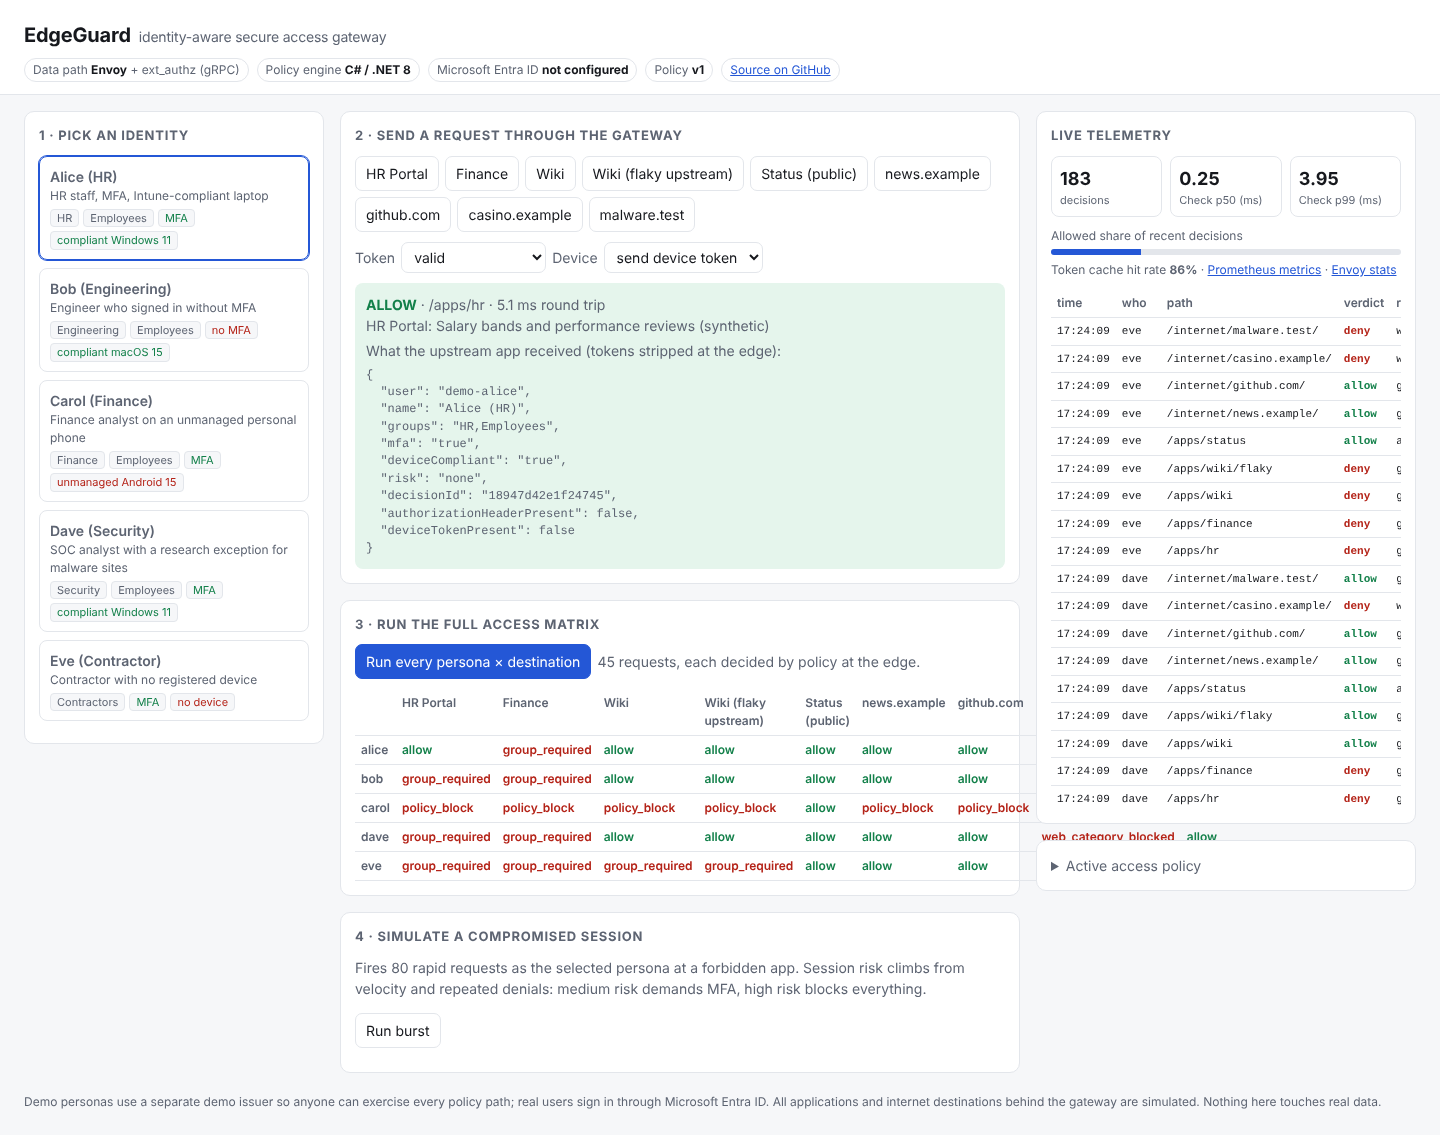
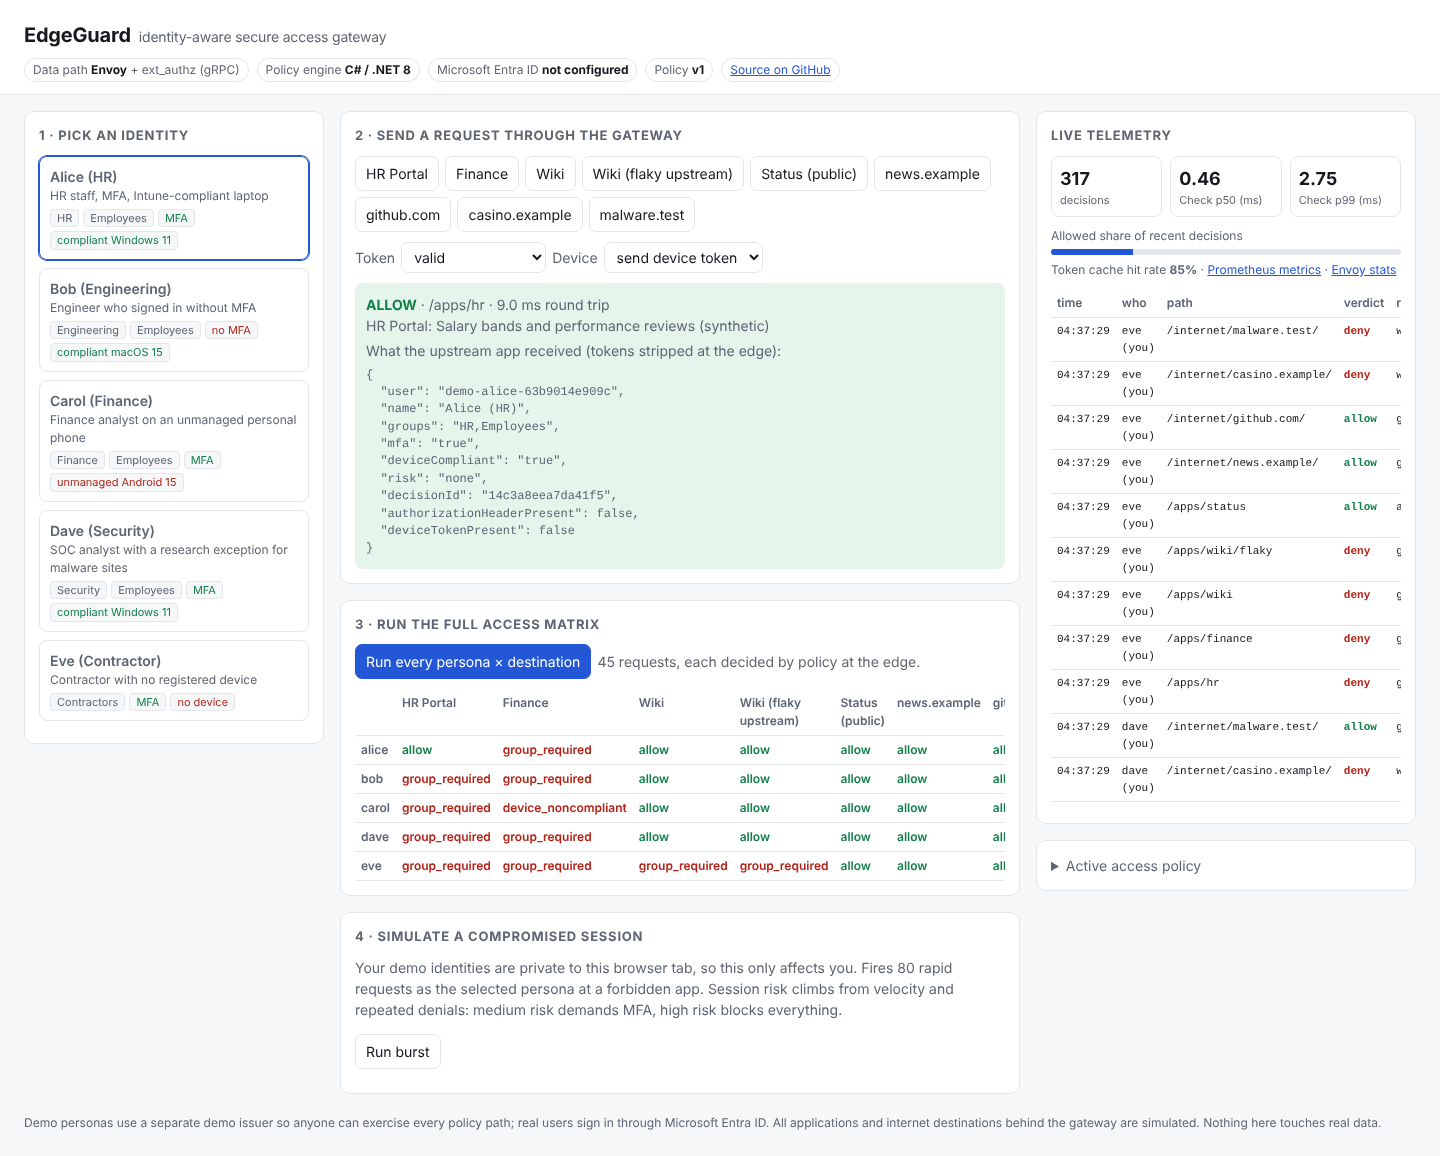
Isolate demo identities per visitor; cap risk state; live link
Each console session mints demo tokens with its own subject, so one visitor's
burst no longer raises risk for everyone using the same persona. Idle per-identity
risk windows are evicted past a cap. Matrix scrolls within its panel.

Claude-Session: https://claude.ai/code/session_01SLPVUHpVBYC754RvdsfNfB

diff --git a/src/EdgeGuard.Authz/wwwroot/index.html b/src/EdgeGuard.Authz/wwwroot/index.html
@@ -35,7 +35,7 @@ pre{font:12px/1.45 var(--mono);white-space:pre-wrap;word-break:break-word;margin
 table{border-collapse:collapse;width:100%;font-size:12px}th,td{border-bottom:1px solid var(--line);padding:5px 6px;text-align:left;vertical-align:top}
 th{color:var(--muted);font-weight:600}
 td.c-allow{color:var(--ok);font-weight:600}td.c-deny,td.c-unauthenticated{color:var(--deny);font-weight:600}
-.feed{max-height:520px;overflow:auto}.feed table{min-width:520px}.feed td{font-family:var(--mono);font-size:11px}
+.feed{max-height:520px;overflow:auto}.feed table{min-width:520px}.feed td{font-family:var(--mono);font-size:11px;white-space:nowrap}
 .kpis{display:grid;grid-template-columns:repeat(3,1fr);gap:8px;margin-bottom:10px}
 .kpi{border:1px solid var(--line);border-radius:8px;padding:8px}.kpi .v{font-size:18px;font-weight:700}.kpi .l{font-size:11px;color:var(--muted)}
 .muted{color:var(--muted)}a{color:var(--accent)}
@@ -89,14 +89,14 @@ footer{padding:4px 24px 24px;color:var(--muted);font-size:12px;max-width:1500px;
     <section style="margin-top:16px">
       <h2>3 · Run the full access matrix</h2>
       <div class="row"><button id="matrix-btn" class="primary">Run every persona × destination</button><span class="muted" id="matrix-note"></span></div>
-      <div id="matrix"></div>
+      <div id="matrix" style="overflow-x:auto"></div>
     </section>
 
     <section style="margin-top:16px">
       <h2>4 · Simulate a compromised session</h2>
-      <p class="muted" style="margin-top:0">Fires 80 rapid requests as the selected persona at a forbidden app. Session risk climbs from velocity and repeated denials: medium risk demands MFA, high risk blocks everything.</p>
+      <p class="muted" style="margin-top:0">Your demo identities are private to this browser tab, so this only affects you. Fires 80 rapid requests as the selected persona at a forbidden app. Session risk climbs from velocity and repeated denials: medium risk demands MFA, high risk blocks everything.</p>
       <div class="row"><button id="burst-btn">Run burst</button><span id="burst-note" class="muted"></span></div>
-      <div id="burst"></div>
+      <div id="burst" style="overflow-x:auto"></div>
     </section>
   </div>
 
@@ -134,12 +134,15 @@ const TARGETS = [
 ];
 let personas = [], selected = "alice", entraToken = null, config = {};
 const tokenCache = new Map();
+const SESSION = (() => { try { const k = "eg-session"; let v = sessionStorage.getItem(k);
+  if (!v) { v = Array.from(crypto.getRandomValues(new Uint8Array(6)), (b) => b.toString(16).padStart(2, "0")).join(""); sessionStorage.setItem(k, v); }
+  return v; } catch { return Array.from(crypto.getRandomValues(new Uint8Array(6)), (b) => b.toString(16).padStart(2, "0")).join(""); } })();
 
 async function demoToken(persona, tamper) {
   const key = persona + "|" + (tamper || "");
   const hit = tokenCache.get(key);
   if (hit && hit.until > Date.now()) return hit.t;
-  const r = await fetch("/api/demo/token", { method: "POST", headers: { "content-type": "application/json" }, body: JSON.stringify({ persona, tamper: tamper || null }) });
+  const r = await fetch("/api/demo/token", { method: "POST", headers: { "content-type": "application/json" }, body: JSON.stringify({ persona, tamper: tamper || null, session: SESSION }) });
   if (!r.ok) throw new Error("token endpoint " + r.status);
   const t = await r.json();
   tokenCache.set(key, { t, until: Date.now() + 10 * 60 * 1000 });
@@ -227,7 +230,7 @@ async function runBurst() {
     try { reason = (await r.json()).reason ?? "allow"; } catch {}
     counts[reason] = (counts[reason] || 0) + 1;
   }));
-  const subj = "demo-" + selected;
+  const subj = t.subject;
   const ev = await (await fetch(`/api/decisions?subject=${subj}&limit=80`)).json();
   const risks = {}; ev.forEach((e) => risks[e.risk] = (risks[e.risk] || 0) + 1);
   $("burst").innerHTML = `<table><tr><th>Outcome</th><th>Count</th></tr>${Object.entries(counts).map(([k, v]) => `<tr><td>${esc(k)}</td><td>${v}</td></tr>`).join("")}</table>
@@ -243,7 +246,7 @@ async function refresh() {
     $("k-p99").textContent = s.checkLatencyMs.p99.toFixed(2);
     $("k-cache").textContent = (s.tokenCacheHitRate * 100).toFixed(0) + "%";
     const allow = s.byVerdict.allow || 0; $("k-allow").style.width = (s.window ? (allow / s.window) * 100 : 0) + "%";
-    $("feed").innerHTML = d.map((e) => `<tr><td>${esc(e.ts.slice(11, 19))}</td><td>${esc(e.subject.replace("demo-", ""))}</td><td>${esc(e.path)}</td>
+    $("feed").innerHTML = d.map((e) => `<tr><td>${esc(e.ts.slice(11, 19))}</td><td>${esc(e.subject.startsWith("demo-") ? e.subject.split("-")[1] + (e.subject.endsWith(SESSION) ? " (you)" : "") : e.subject.slice(0, 8))}</td><td>${esc(e.path)}</td>
       <td class="c-${esc(e.verdict)}">${esc(e.verdict)}</td><td>${esc(e.reasonCode)}</td><td>${esc(e.risk)}</td></tr>`).join("");
   } catch {}
 }

diff --git a/tests/integration/test_gateway.py b/tests/integration/test_gateway.py
@@ -12,13 +12,13 @@ import pytest
 import requests
 
 BASE = os.environ.get("EDGEGUARD_URL", "http://localhost:8080").rstrip("/")
-ADMIN_KEY = os.environ.get("EDGEGUARD_ADMIN_KEY", "localadmin")
+ADMIN_KEY = os.environ.get("EDGEGUARD_ADMIN_KEY", "")
 S = requests.Session()
 
 
-def token(persona, tamper=None):
+def token(persona, tamper=None, session=None):
     for _ in range(20):  # the token endpoint is deliberately rate limited
-        r = S.post(f"{BASE}/api/demo/token", json={"persona": persona, "tamper": tamper}, timeout=5)
+        r = S.post(f"{BASE}/api/demo/token", json={"persona": persona, "tamper": tamper, "session": session}, timeout=5)
         if r.status_code != 429:
             break
         time.sleep(0.1)
@@ -44,13 +44,6 @@ def reason(r):
         return r.json()["reason"]
     except Exception:
         return str(r.status_code)
-
-
-@pytest.fixture(autouse=True)
-def clean_risk_state():
-    """Each test starts with no accumulated session risk for the demo personas."""
-    for p in ("alice", "bob", "carol", "dave", "eve"):
-        S.delete(f"{BASE}/api/admin/risk/demo-{p}", headers={"x-admin-key": ADMIN_KEY}, timeout=5)
 
 
 # ---------------------------------------------------------------- policy matrix
@@ -128,7 +121,7 @@ def test_credentials_are_stripped_and_identity_headers_cannot_be_spoofed():
     h = headers_for(token("alice"))
     h.update({"x-eg-user": "admin", "x-eg-groups": "Finance", "x-eg-risk": "none"})
     seen = call("/apps/wiki", h).json()["seenByUpstream"]
-    assert seen["user"] == "demo-alice"
+    assert seen["user"].startswith("demo-alice-")
     assert seen["groups"] == "HR,Employees"
     assert seen["authorizationHeaderPresent"] is False
     assert seen["deviceTokenPresent"] is False
@@ -173,21 +166,30 @@ def test_admin_risk_api_requires_the_admin_key():
     assert r.status_code == 401
 
 
+def test_each_session_gets_an_isolated_identity():
+    a, b = token("alice"), token("alice")
+    assert a["subject"] != b["subject"]
+    assert token("alice", session=a["session"])["subject"] == a["subject"]
+
+
+@pytest.mark.skipif(ADMIN_KEY == "", reason="needs EDGEGUARD_ADMIN_KEY")
 def test_external_risk_signal_contains_then_releases_an_identity():
-    h = headers_for(token("alice"))
+    t = token("alice")
+    h = headers_for(t)
     assert call("/apps/hr", h).status_code == 200
     r = S.post(f"{BASE}/api/admin/risk", headers={"x-admin-key": ADMIN_KEY},
-               json={"subject": "demo-alice", "level": "High", "reason": "test: impossible travel", "ttlSeconds": 60}, timeout=5)
+               json={"subject": t["subject"], "level": "High", "reason": "test: impossible travel", "ttlSeconds": 60}, timeout=5)
     assert r.status_code == 200
     assert reason(call("/apps/hr", h)) == "policy_block"
-    assert S.delete(f"{BASE}/api/admin/risk/demo-alice", headers={"x-admin-key": ADMIN_KEY}, timeout=5).status_code == 204
+    assert S.delete(f"{BASE}/api/admin/risk/{t['subject']}", headers={"x-admin-key": ADMIN_KEY}, timeout=5).status_code == 204
     assert call("/apps/hr", h).status_code == 200
 
 
 def test_burst_escalates_risk_to_step_up_then_block():
-    h = headers_for(token("carol"))
+    t = token("carol")
+    h = headers_for(t)
     with cf.ThreadPoolExecutor(8) as ex:
         reasons = list(ex.map(lambda _: reason(call("/apps/hr", h)), range(80)))
     assert "policy_block" in reasons
-    decisions = S.get(f"{BASE}/api/decisions", params={"subject": "demo-carol", "limit": 200}, timeout=5).json()
+    decisions = S.get(f"{BASE}/api/decisions", params={"subject": t["subject"], "limit": 200}, timeout=5).json()
     assert {"medium", "high"} <= {d["risk"] for d in decisions}

diff --git a/src/EdgeGuard.Authz/Program.cs b/src/EdgeGuard.Authz/Program.cs
@@ -106,8 +106,13 @@ api.MapGet("/api/personas", () => DemoPersonas.All.Select(p => new
 api.MapPost("/api/demo/token", (DemoTokenRequest r) =>
 {
     if (!demoEnabled) return Results.NotFound();
-    var p = DemoPersonas.Find(r.Persona ?? "");
-    if (p is null) return Results.BadRequest(new { error = "unknown persona" });
+    var persona = DemoPersonas.Find(r.Persona ?? "");
+    if (persona is null) return Results.BadRequest(new { error = "unknown persona" });
+    // Each visitor session gets its own subject, so one visitor's burst (and the risk it
+    // raises) never changes what another visitor sees for the same persona.
+    var session = r.Session is { Length: >= 6 and <= 32 } sid && sid.All(char.IsLetterOrDigit)
+        ? sid.ToLowerInvariant() : Guid.NewGuid().ToString("N")[..10];
+    var p = persona with { Subject = $"demo-{persona.Key}-{session}" };
     string access = r.Tamper switch
     {
         "expired" => demo.IssueUserToken(p, TimeSpan.FromMinutes(5), DateTimeOffset.UtcNow.AddHours(-1)),
@@ -115,7 +120,7 @@ api.MapPost("/api/demo/token", (DemoTokenRequest r) =>
         _ => demo.IssueUserToken(p, TimeSpan.FromMinutes(15)),
     };
     var device = p.DeviceId is null ? null : demo.IssueDeviceToken(p.DeviceId, p.DeviceCompliant, p.DeviceOs, TimeSpan.FromMinutes(15));
-    return Results.Ok(new { persona = p.Key, accessToken = access, deviceToken = device, expiresIn = 900 });
+    return Results.Ok(new { persona = p.Key, subject = p.Subject, session, accessToken = access, deviceToken = device, expiresIn = 900 });
 });
 
 api.MapGet("/api/decisions", (DecisionTelemetry t, int? limit, string? subject) =>
@@ -162,6 +167,6 @@ api.MapDelete("/api/admin/risk/{subject}", (HttpRequest req, string subject, Ris
 
 app.Run();
 
-public sealed record DemoTokenRequest(string? Persona, string? Tamper);
+public sealed record DemoTokenRequest(string? Persona, string? Tamper, string? Session);
 public sealed record RiskOverride(string Subject, string Level, string? Reason, int? TtlSeconds);
 public partial class Program;

diff --git a/src/EdgeGuard.Authz/Risk/RiskEngine.cs b/src/EdgeGuard.Authz/Risk/RiskEngine.cs
@@ -36,6 +36,7 @@ public sealed class RiskEngine
     public RiskSignal Assess(string subject, bool hasDevice)
     {
         var now = _time.GetUtcNow().ToUnixTimeMilliseconds();
+        if (_windows.Count >= MaxTrackedSubjects) EvictIdle(now);
         var w = _windows.GetOrAdd(subject, _ => new Window());
         int requests, denials;
         lock (w)
@@ -85,6 +86,27 @@ public sealed class RiskEngine
     public IReadOnlyDictionary<string, object> ExternalRiskSnapshot() =>
         _external.Where(kv => kv.Value.Until > _time.GetUtcNow())
                  .ToDictionary(kv => kv.Key, kv => (object)new { level = kv.Value.Level.ToString(), why = kv.Value.Why, until = kv.Value.Until });
+
+    /// <summary>Upper bound on per-identity windows held in memory (public demo mints many subjects).</summary>
+    public int MaxTrackedSubjects { get; init; } = 20_000;
+
+    public int TrackedSubjects => _windows.Count;
+
+    /// <summary>Drop identities with no activity in the last 60 s; their windows are empty anyway.</summary>
+    private void EvictIdle(long now)
+    {
+        foreach (var (key, w) in _windows)
+        {
+            bool idle;
+            lock (w)
+            {
+                Trim(w.Requests, now - 10_000);
+                Trim(w.Denials, now - 60_000);
+                idle = w.Requests.Count == 0 && w.Denials.Count == 0;
+            }
+            if (idle) _windows.TryRemove(key, out _);
+        }
+    }
 
     private static void Trim(Queue<long> q, long cutoff) { while (q.Count > 0 && q.Peek() < cutoff) q.Dequeue(); }
 }

diff --git a/tests/EdgeGuard.Authz.Tests/IdentityAndRiskTests.cs b/tests/EdgeGuard.Authz.Tests/IdentityAndRiskTests.cs
@@ -155,3 +155,17 @@ public class RiskReleaseTests
         Assert.Equal(RiskLevel.None, r.Assess("u", true).Level);
     }
 }
+
+public class RiskMemoryTests
+{
+    [Fact]
+    public void Idle_identities_are_evicted_when_the_cap_is_reached()
+    {
+        var clock = new FakeTimeProvider(DateTimeOffset.UtcNow);
+        var r = new RiskEngine(new RiskOptions(), clock) { MaxTrackedSubjects = 100 };
+        for (var i = 0; i < 100; i++) r.Assess($"old-{i}", true);
+        clock.Advance(TimeSpan.FromSeconds(61));
+        r.Assess("new", true);
+        Assert.Equal(1, r.TrackedSubjects);
+    }
+}

diff --git a/README.md b/README.md
@@ -5,7 +5,7 @@ reaches a private app or an internet destination, Envoy asks a C#/.NET authoriza
 whether *this identity, on this device, at this risk level* may proceed. It is a small, working model of
 how a Zero Trust edge (Secure Web Gateway + private application access) makes per-request decisions.
 
-**Live demo:** _link added after deployment_ · **Stack:** Envoy 1.33 · C# / .NET 8 · gRPC · Microsoft Entra ID · Docker · Google Cloud Run · GitHub Actions · k6
+**Live demo:** https://edgeguard-txtjkjjmia-uc.a.run.app (demo personas work for anyone; *Sign in with Microsoft Entra ID* works for accounts in the EdgeGuard tenant) · **Stack:** Envoy 1.33 · C# / .NET 8 · gRPC · Microsoft Entra ID · Docker · Google Cloud Run · GitHub Actions · k6
 
 ![EdgeGuard console](docs/console.png)
 
@@ -41,8 +41,9 @@ flowchart LR
 
 | Check | Result |
 |---|---|
-| Unit tests (policy, identity incl. Entra token shapes, risk) | **52 passing** |
-| Black-box integration tests against the real container | **26 passing**, stable across repeated runs |
+| Unit tests (policy, identity incl. Entra token shapes, risk) | **53 passing** |
+| Black-box integration tests against the real container | **27 passing** locally and in CI; the same suite gates every Cloud Run rollout |
+| Live deployment, Microsoft Entra ID | Tenant signing keys loaded at startup; forged-key and cross-tenant tokens rejected in production (`bad_signature`, `untrusted_issuer`) |
 | Authorization overhead at 500 rps | **+0.7 ms p50** vs. Envoy alone (1.31 vs. 0.63 ms) |
 | `Check` latency inside the service | **0.105 ms p50 / 0.178 ms p99** (token cache on) |
 | Sustained load, 1.5 vCPU | **1,500 rps, 0 errors**, p99 39 ms |
@@ -114,6 +115,10 @@ deploy/                 container entrypoint, Cloud Run verified-rollout script
   independently, and it fails closed.
 - **Why cache token validation?** RSA verification is the most expensive step per request; caching by token
   hash, capped at the token's own expiry, cut `Check` time about 25%.
+- **Demo identities are per visitor.** Each browser session gets its own subject (`demo-alice-<session>`), so one
+  visitor's burst never changes what another visitor sees. Per-identity risk windows are capped and idle ones evicted.
+- **Entra keys load before traffic.** The first Entra request after a cold start used to fetch OIDC metadata inside
+  Envoy's 250 ms authorization budget and fail closed; the service now loads the tenant's keys before it listens.
 - **Risk state is per instance** (in memory). A multi-instance deployment would move it to a shared store;
   the demo runs a single Cloud Run instance.
 - **Simulated pieces:** the private apps, internet destinations and device-compliance attestation are
